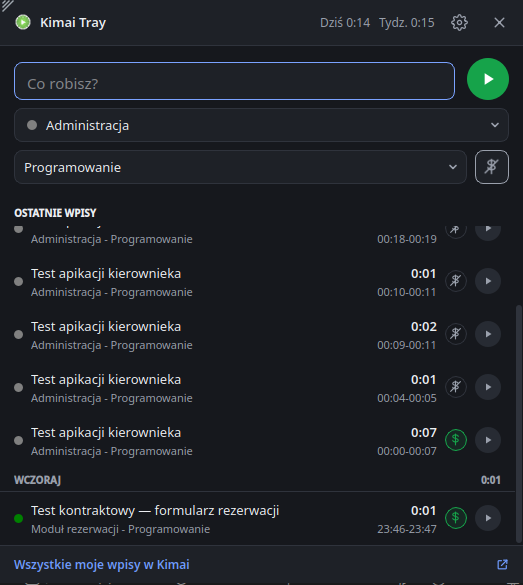
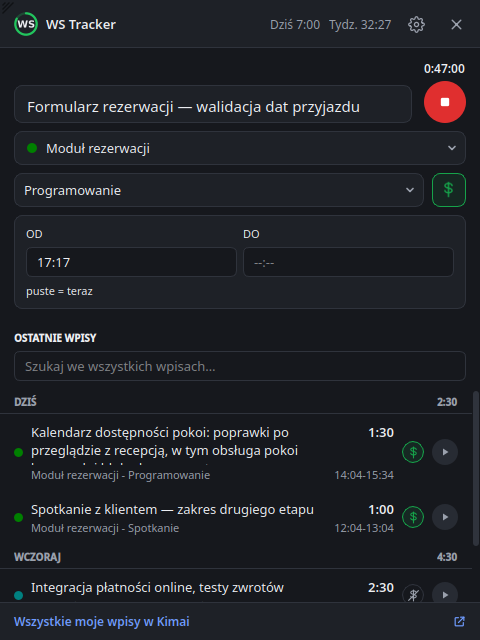
docs: nowy zrzut okna WS Tracker (README, Discover) na zmyślonych danych

diff --git a/TODO/W-TRAKCIE/0065-poprawki-po-0-9-1/prototyp/zrzut-okna.py b/TODO/W-TRAKCIE/0065-poprawki-po-0-9-1/prototyp/zrzut-okna.py
@@ -1,0 +1,38 @@
+"""The screenshot for README and Discover: the quick window, dark theme, made-up data only."""
+import sys
+from dataclasses import replace
+from datetime import timedelta
+sys.path.insert(0, ".")
+from PySide6.QtCore import Qt, QSize
+from PySide6.QtWidgets import QApplication
+app = QApplication([])
+app.styleHints().setColorScheme(Qt.ColorScheme.Dark)
+from ws_tracker_tray.core.i18n import Translator
+from ws_tracker_tray.core.settings import Settings
+from ws_tracker_tray.core.models import Activity
+from ws_tracker_tray.core.tracker import Snapshot, Totals
+import ws_tracker_tray.ui.popup as popup_module
+from ws_tracker_tray.ui.theme import palette_for
+popup_module.palette_for = lambda _scheme, window: palette_for(Qt.ColorScheme.Dark, window)
+from ws_tracker_tray.ui.popup import QuickWindow
+from ws_tracker_tray.ui.state import AppState
+from tests.core.fakes import NOW, FakeClient, make_entry
+c = FakeClient()
+H = timedelta(hours=1)
+running = make_entry(1, NOW - timedelta(minutes=47), description="Formularz rezerwacji — walidacja dat przyjazdu")
+recent = (
+    make_entry(2, NOW - 4 * H, NOW - 2.5 * H, description="Kalendarz dostępności pokoi: poprawki po przeglądzie z recepcją, w tym obsługa pokoi łączonych i blokad na remont"),
+    make_entry(3, NOW - 6 * H, NOW - 5 * H, description="Spotkanie z klientem — zakres drugiego etapu", activity_id=2),
+    replace(make_entry(4, NOW - 26 * H, NOW - 23.5 * H, description="Integracja płatności online, testy zwrotów", billable=False), project_name="Integracja z KSeF", project_color="#008080"),
+    make_entry(5, NOW - 29 * H, NOW - 27 * H, description="Formularz rezerwacji — komunikaty błędów"),
+)
+recent = tuple(replace(e, activity_name="Spotkanie") if e.activity_id == 2 else e for e in recent)
+snap = Snapshot(user=c.user, running=(running,), recent=recent, totals=Totals(today=6 * 3600 + 13 * 60, week=31 * 3600 + 40 * 60), projects=tuple(c.projects_list), non_billable_customers=frozenset({20}))
+state = AppState(Settings(url="https://kimai.example.com"), Translator("pl"))
+w = QuickWindow(state, now=lambda: NOW)
+w.form.set_catalog(snap, remembered_project=1)
+w.form.set_activities([Activity(1, "Programowanie", True, None), Activity(2, "Spotkanie", True, None)], 1)
+state.update(configured=True, snapshot=snap)
+w.set_preferred_size(QSize(480, 640)); w.show()
+for _ in range(5): app.processEvents()
+w.grab().save(sys.argv[1])

diff --git a/TODO/W-TRAKCIE/0065-poprawki-po-0-9-1/prototyp/znak.py b/TODO/W-TRAKCIE/0065-poprawki-po-0-9-1/prototyp/znak.py
@@ -1,0 +1,27 @@
+"""The small WS Tracker mark: green ring and bigger letters in the text colour (currentColor), no tile."""
+import sys
+from pathlib import Path
+from PySide6.QtGui import QGuiApplication, QPainterPath, QFont
+app = QGuiApplication([])
+font = QFont("DejaVu Sans"); font.setBold(True); font.setPixelSize(104)
+text = QPainterPath(); text.addText(0, 0, font, "WS")
+box = text.boundingRect()
+text.translate(128 - box.center().x(), 128 - box.center().y())
+def d(path):
+    out = []
+    for i in range(path.elementCount()):
+        e = path.elementAt(i)
+        if e.isMoveTo(): out.append(f"M{e.x:.1f} {e.y:.1f}")
+        elif e.isLineTo(): out.append(f"L{e.x:.1f} {e.y:.1f}")
+        elif e.isCurveTo():
+            c2, end = path.elementAt(i + 1), path.elementAt(i + 2)
+            out.append(f"C{e.x:.1f} {e.y:.1f} {c2.x:.1f} {c2.y:.1f} {end.x:.1f} {end.y:.1f}")
+    return "".join(out) + "Z"
+print(f"box {box.width():.0f}x{box.height():.0f}", file=sys.stderr)
+Path(sys.argv[1]).write_text(f"""<svg xmlns="http://www.w3.org/2000/svg" viewBox="0 0 256 256">
+  <!-- WS Tracker mark for small sizes (window header): no tile; letters take the theme's text colour. -->
+  <circle cx="128" cy="128" r="114" fill="none" stroke="#22c55e" stroke-opacity="0.25" stroke-width="24"/>
+  <path d="M128 14 A114 114 0 1 1 29.3 71" fill="none" stroke="#22c55e" stroke-width="24" stroke-linecap="round"/>
+  <path d="{d(text)}" fill="currentColor"/>
+</svg>
+""")

diff --git a/TODO/W-TRAKCIE/0065-poprawki-po-0-9-1/todo.md b/TODO/W-TRAKCIE/0065-poprawki-po-0-9-1/todo.md
@@ -42,7 +42,9 @@ Naprawić trzy zgłoszenia użytkownika po wydaniu 0.9.1.
 
 ## Materiały
 
-Brak.
+- [prototyp/zrzut-okna.py](prototyp/zrzut-okna.py) — zrzut okna do README i Discover na zmyślonych danych
+  (`QT_QPA_PLATFORM=offscreen .venv/bin/python …/zrzut-okna.py docs/assets/zrzuty/okno-ciemny-motyw.png`)
+- [prototyp/znak.py](prototyp/znak.py) — generuje `src/ws_tracker_tray/ui/assets/ws-tracker-znak.svg`
 
 ## Dziennik
 
